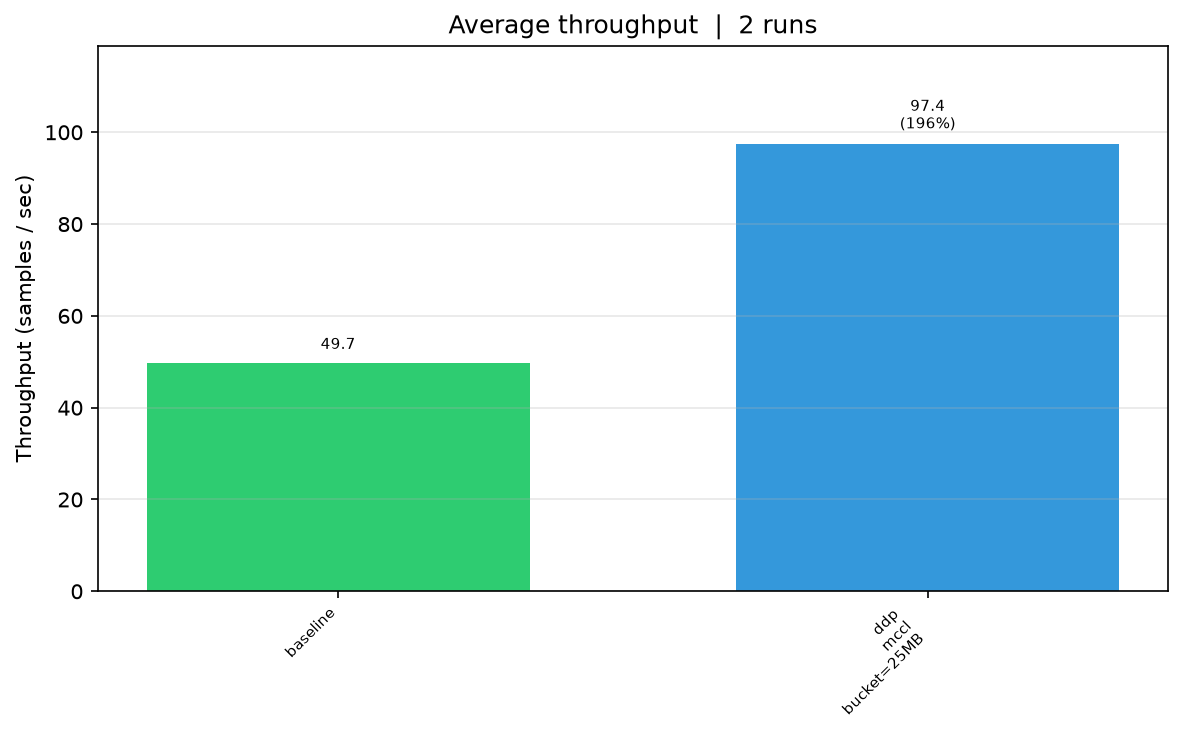
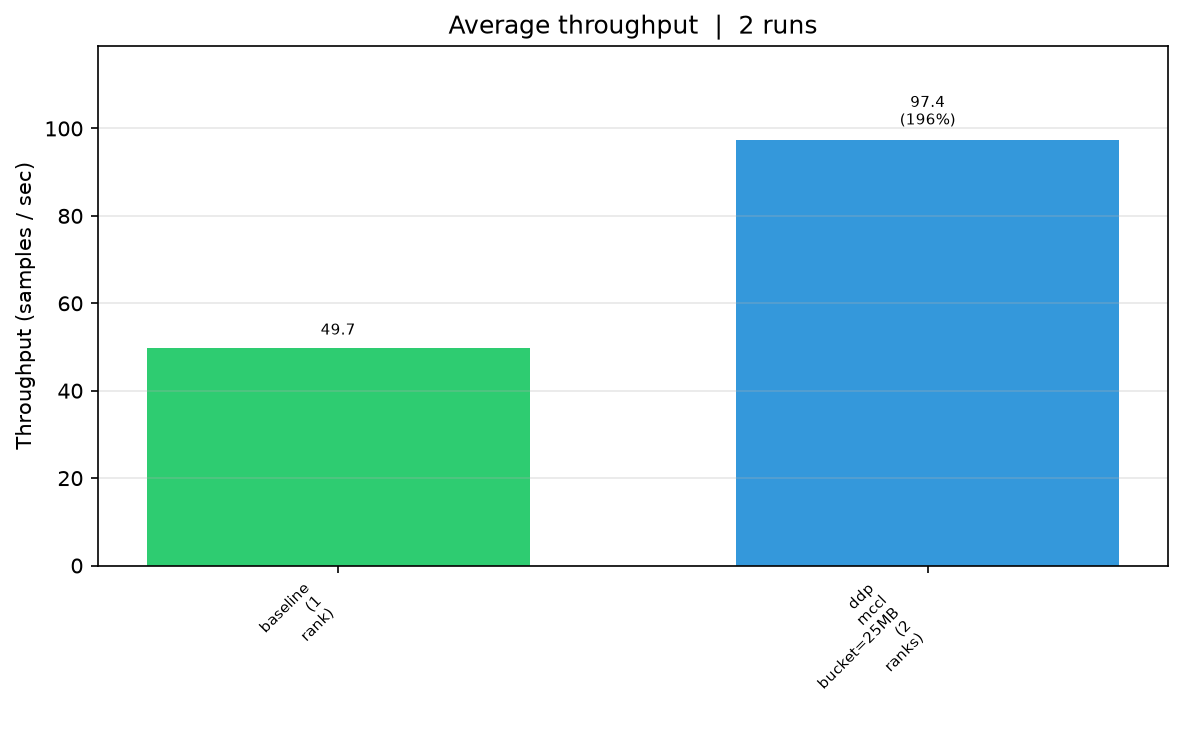
up

diff --git a/src/plot.py b/src/plot.py
@@ -89,11 +89,22 @@ def _load_runs(paths: list[Path]) -> list[RunStats]:
     for path in sorted(paths):
         data = _load(path)
         _validate(data, path)
+        
+        # Get the base descriptive label from ddp_utils
+        base_label = run_label_from_payload(data)
+        
+        # Safe extraction of the world_size integer from the JSON payload
+        ws = data.get("world_size", 1)
+        
+        # Append worldsize cleanly depending on count
+        rank_suffix = f" ({ws} rank)" if ws == 1 else f" ({ws} ranks)"
+        final_label = f"{base_label}{rank_suffix}"
+        
         runs.append(
             RunStats(
                 path=path,
                 name=path.stem,
-                label=run_label_from_payload(data),
+                label=final_label,  # Injects the new string configuration
                 data=data,
             )
         )

diff --git a/src/ddp_train.py b/src/ddp_train.py
@@ -258,7 +258,7 @@ def run_ddp(args) -> None:
             except Exception:
                 pass
         out = write_training_stats(
-            args.save_stats, f"ddp_{args.backend}", step_times, losses,
+            args.save_stats, f"ddp_{args.backend}_ws{world_size}", step_times, losses,
             args.batch_size, world_size, total_params,
             config=cfg, mccl_metrics=mccl_metrics,
         )